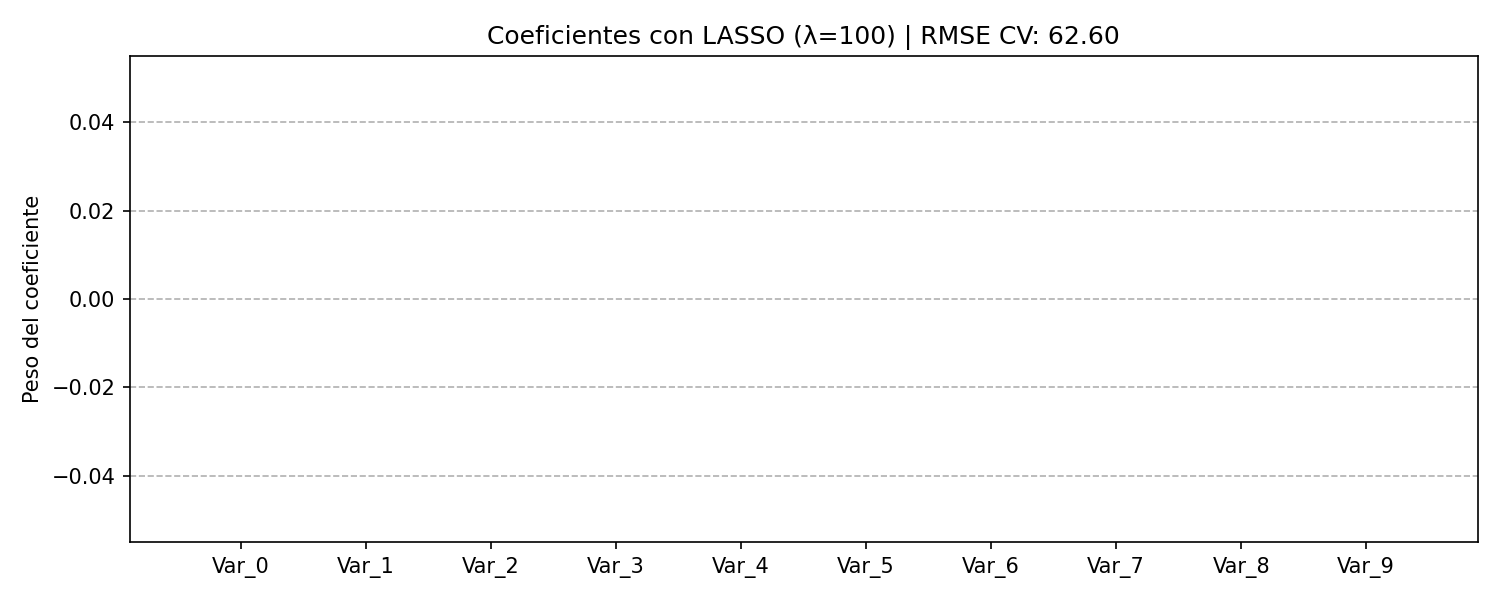
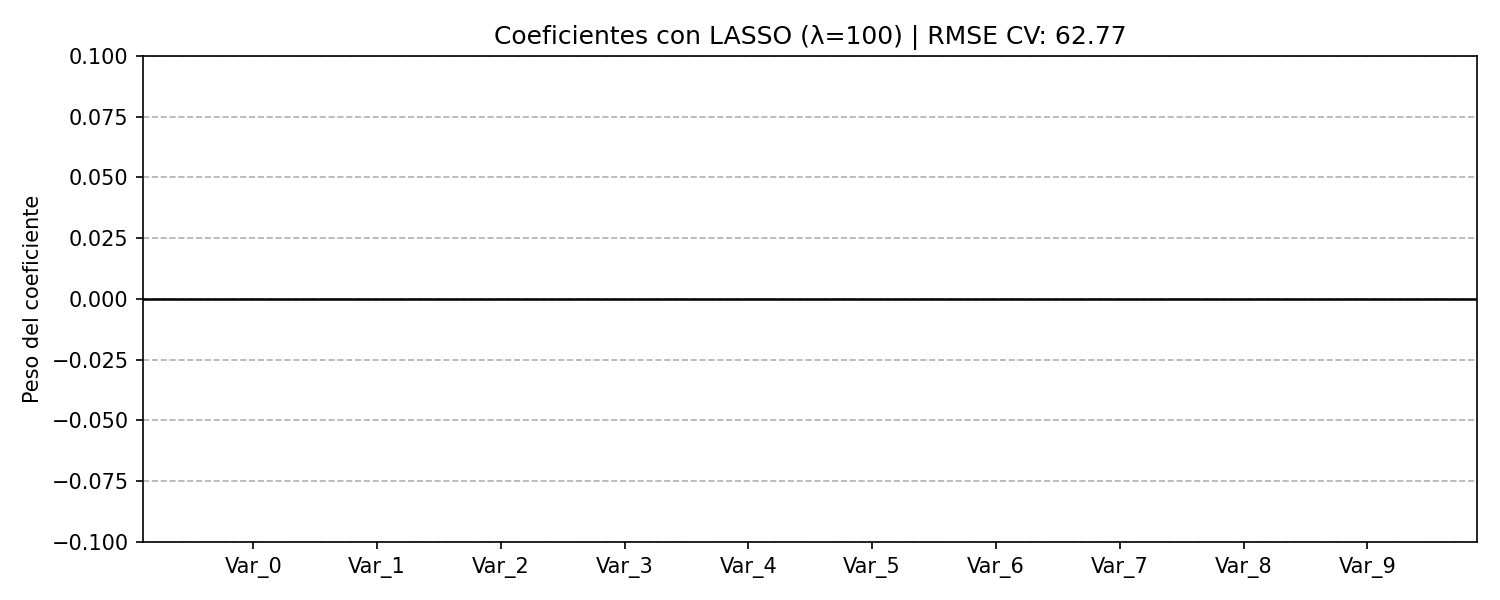
Task done: 1. Graphics generation fixed: now it forces to show a line when all the values are 0 2. graphic generation for 1.2.3: lambda = 1000

diff --git a/P2/P2_regularizacion/python/01_regularizacion_cv.py b/P2/P2_regularizacion/python/01_regularizacion_cv.py
@@ -50,8 +50,8 @@ def main() -> None:
     # -----------------------
     # 2) Configuración (MODIFICA ESTO)
     # -----------------------
-    metodo = "lasso"       # Opciones: "lasso" o "ridge"
-    valor_lambda = 1.0     # Fuerza de la penalización (alpha en sklearn)
+    metodo = "ridge"       # Opciones: "lasso" o "ridge"
+    valor_lambda = 1000     # Fuerza de la penalización (alpha en sklearn)
     k_folds = 10
 
     # Consejo: en Lasso a veces necesitas subir max_iter si no converge
@@ -75,9 +75,18 @@ def main() -> None:
     # 4) Entrenar y visualizar coeficientes
     # -----------------------
     modelo.fit(X_std, y)
+    coef = modelo.coef_
 
     plt.figure(figsize=(10, 4))
-    plt.bar(range(10), modelo.coef_)
+    plt.bar(range(10), coef)
+    plt.axhline(0, color="black", linewidth=1.2)
+
+    max_abs = float(np.max(np.abs(coef)))
+    if max_abs < 1e-3:
+        plt.ylim(-0.1, 0.1)
+    else:
+        plt.ylim(-1.1 * max_abs, 1.1 * max_abs)
+
     plt.xticks(range(10), [f"Var_{i}" for i in range(10)])
     plt.title(f"Coeficientes con {metodo.upper()} (λ={valor_lambda}) | RMSE CV: {rmse_cv:.2f}")
     plt.ylabel("Peso del coeficiente")
